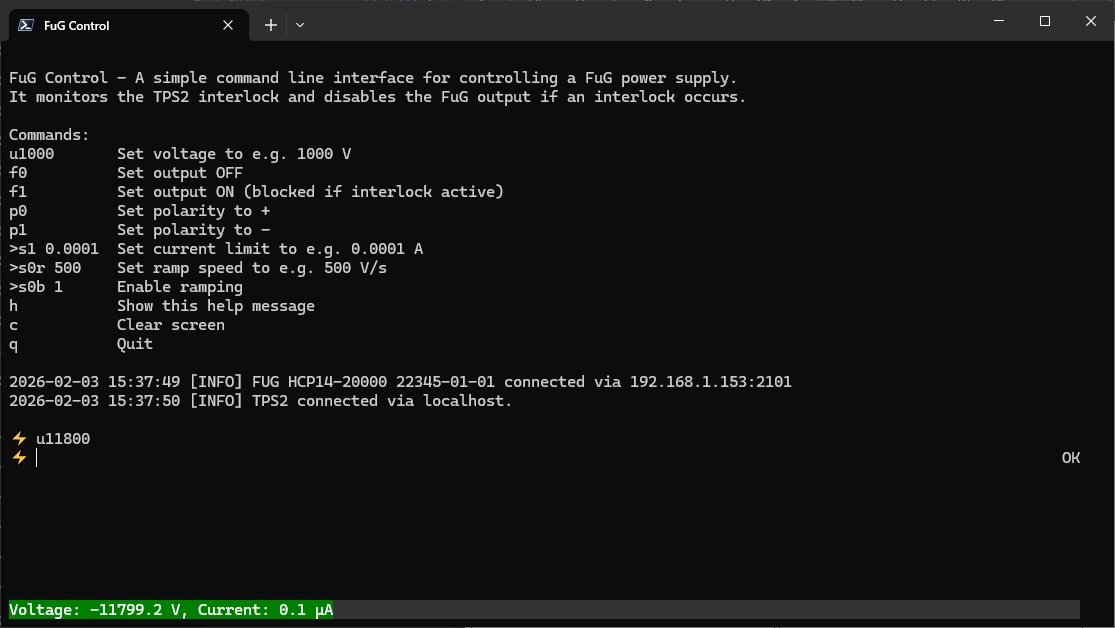
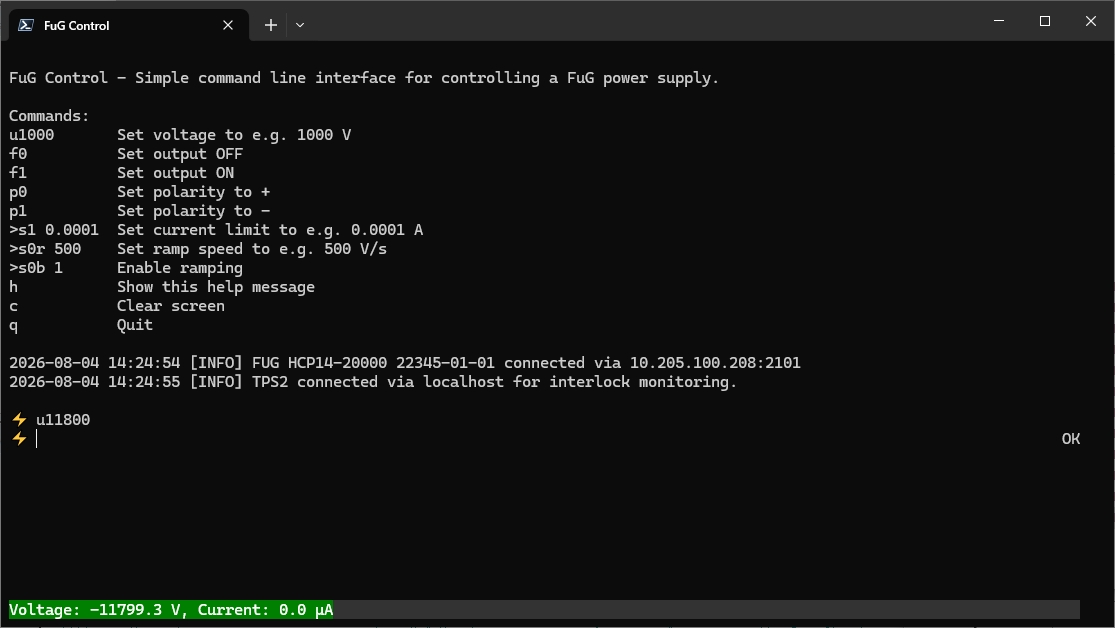
add: configuration with ini file

diff --git a/FuG_Control.py b/FuG_Control.py
@@ -2,7 +2,7 @@
 """
 FuG Control - Simple command line interface for controlling a FuG power supply.
 
-Version 0.6.0
+Version 0.7.0
 Author: Patrick Sturm
 Copyright 2025 TOFWERK
 """
@@ -12,21 +12,13 @@ import socket
 import time
 import threading
 import logging
-import argparse
+import configparser
 import prompt_toolkit
 from prompt_toolkit.styles import Style
 from prompt_toolkit.patch_stdout import patch_stdout
 from dataclasses import dataclass, field
 from TofDaq import *
 from TwTool import *
-
-FUG_IP = '10.205.100.208'
-FUG_PORT = 2101
-FUG_POLL_INTERVAL = 1.0  # seconds
-
-TPS_IP = 'localhost'
-INTERLOCK_MON_RC = 601  # INTERLOCK_MON RC code
-INTERLOCK_POLL_INTERVAL = 1.0  # seconds
 
 HELP_MESSAGE = """
 FuG Control - Simple command line interface for controlling a FuG power supply.
@@ -45,9 +37,15 @@ c           Clear screen
 q           Quit
 """
 
-parser = argparse.ArgumentParser(description = 'Simple command line interface for controlling a FuG power supply.')
-parser.add_argument('-i', '--interlock', action = 'store_true', help = 'run with TPS2 interlock monitoring')
-args = parser.parse_args()
+config = configparser.ConfigParser()
+config.read('FuG_Control.ini')
+fug_ip = config['FUG']['ip']
+fug_port = config['FUG'].getint('port', fallback = 2101)
+fug_poll_interval = config['FUG'].getfloat('poll_interval', fallback = 1)
+tps_interlock = config['TPS'].getboolean('interlock_mon', fallback = False)
+tps_ip = config['TPS'].get('ip', fallback = 'localhost')
+tps_interlock_rc = config['TPS'].getint('rc', fallback = 601)
+tps_poll_interval = config['TPS'].getfloat('poll_interval', fallback = 1)
 
 class FUG:
   def __init__(self, ip, port, timeout = 2.0):
@@ -116,7 +114,7 @@ def monitor_fug(stop_event, fug):
       state.current = parse_response(fug.send_command('>m1?'))
     except (socket.timeout, ConnectionError, ValueError) as e:
       log.error('FuG polling failed: %s', e)
-    stop_event.wait(FUG_POLL_INTERVAL)
+    stop_event.wait(fug_poll_interval)
 
 def parse_response(response: str) -> float:
   if response.startswith('M0:'):
@@ -142,7 +140,7 @@ def dynamic_rprompt():
 def monitor_interlock(stop_event, fug):
   while not stop_event.is_set():
     value = np.zeros(1, dtype=np.float64)
-    rv = TwTpsGetMonitorValue(INTERLOCK_MON_RC, value)
+    rv = TwTpsGetMonitorValue(tps_interlock_rc, value)
     if (rv != TwSuccess):
       log.error(f'Failed to read INTERLOCK_MON: {TwTranslateReturnValue(rv).decode()}.')
     else:
@@ -157,7 +155,7 @@ def monitor_interlock(stop_event, fug):
           state.interlock = False
           fug.send_command('f1')
           log.info('Interlock cleared – output switched ON.')
-    stop_event.wait(INTERLOCK_POLL_INTERVAL)
+    stop_event.wait(tps_poll_interval)
 
 def main():
   os.system('title ' + 'FuG Control')
@@ -165,21 +163,21 @@ def main():
   print(HELP_MESSAGE)
 
   # Connect to FuG
-  fug = FUG(FUG_IP, FUG_PORT)
+  fug = FUG(fug_ip, fug_port)
   fug_id = fug.connect()
-  log.info(f'{fug_id.rstrip()} connected via {FUG_IP}:{FUG_PORT}')
+  log.info(f'{fug_id.rstrip()} connected via {fug_ip}:{fug_port}')
 
   stop_event = threading.Event()
   threading.Thread(target=monitor_fug, args=(stop_event,fug,), daemon=True).start()
 
-  if args.interlock:
+  if tps_interlock:
     # Connect to TPS2
-    if TwTpsConnect2(TPS_IP.encode(), 1) != TwSuccess:
+    if TwTpsConnect2(tps_ip.encode(), 1) != TwSuccess:
       log.error('Failed to connect to TPS2.')
       fug.close()
       TwCleanupDll()
       return
-    log.info(f'TPS2 connected via {TPS_IP} for interlock monitoring.\n')
+    log.info(f'TPS2 connected via {tps_ip} for interlock monitoring.\n')
     threading.Thread(target=monitor_interlock, args=(stop_event,fug,), daemon=True).start()
 
   style = Style.from_dict({
@@ -218,10 +216,10 @@ def main():
               state.last_response = fug.send_command(command)
   finally:
     stop_event.set()
-    if args.interlock:
+    fug.close()
+    if tps_interlock:
       TwTpsDisconnect()
       TwCleanupDll()
-    fug.close()
 
 if __name__ == '__main__':
   main()

diff --git a/README.md b/README.md
@@ -6,9 +6,8 @@ This allows to control a FuG power supply (e.g. [HCP14](https://www.xppower.com/
 
 ![](./hcp14.jpg)
 
-Additionally, when run with the command-line argument `-i`, the interlock signal
-from a Tofwerk TOF power supply is monitored and the FuG output is switched off
-if an interlock occurs.
+Additionally, it can be configured to monitor the interlock signal from a Tofwerk TOF power supply. If an interlock occurs,
+the FuG output is switched off.
 
 See the [FuG command reference](https://www.xppower.com/products/series/resources/Digital_Interface_Command_Reference_Probus_V.pdf)
 for a complete list of available power supply commands.
@@ -17,5 +16,5 @@ for a complete list of available power supply commands.
 
 ### Usage
 ```
-python FuG_Control.py [-h] [-i]
+python FuG_Control.py
 ```
